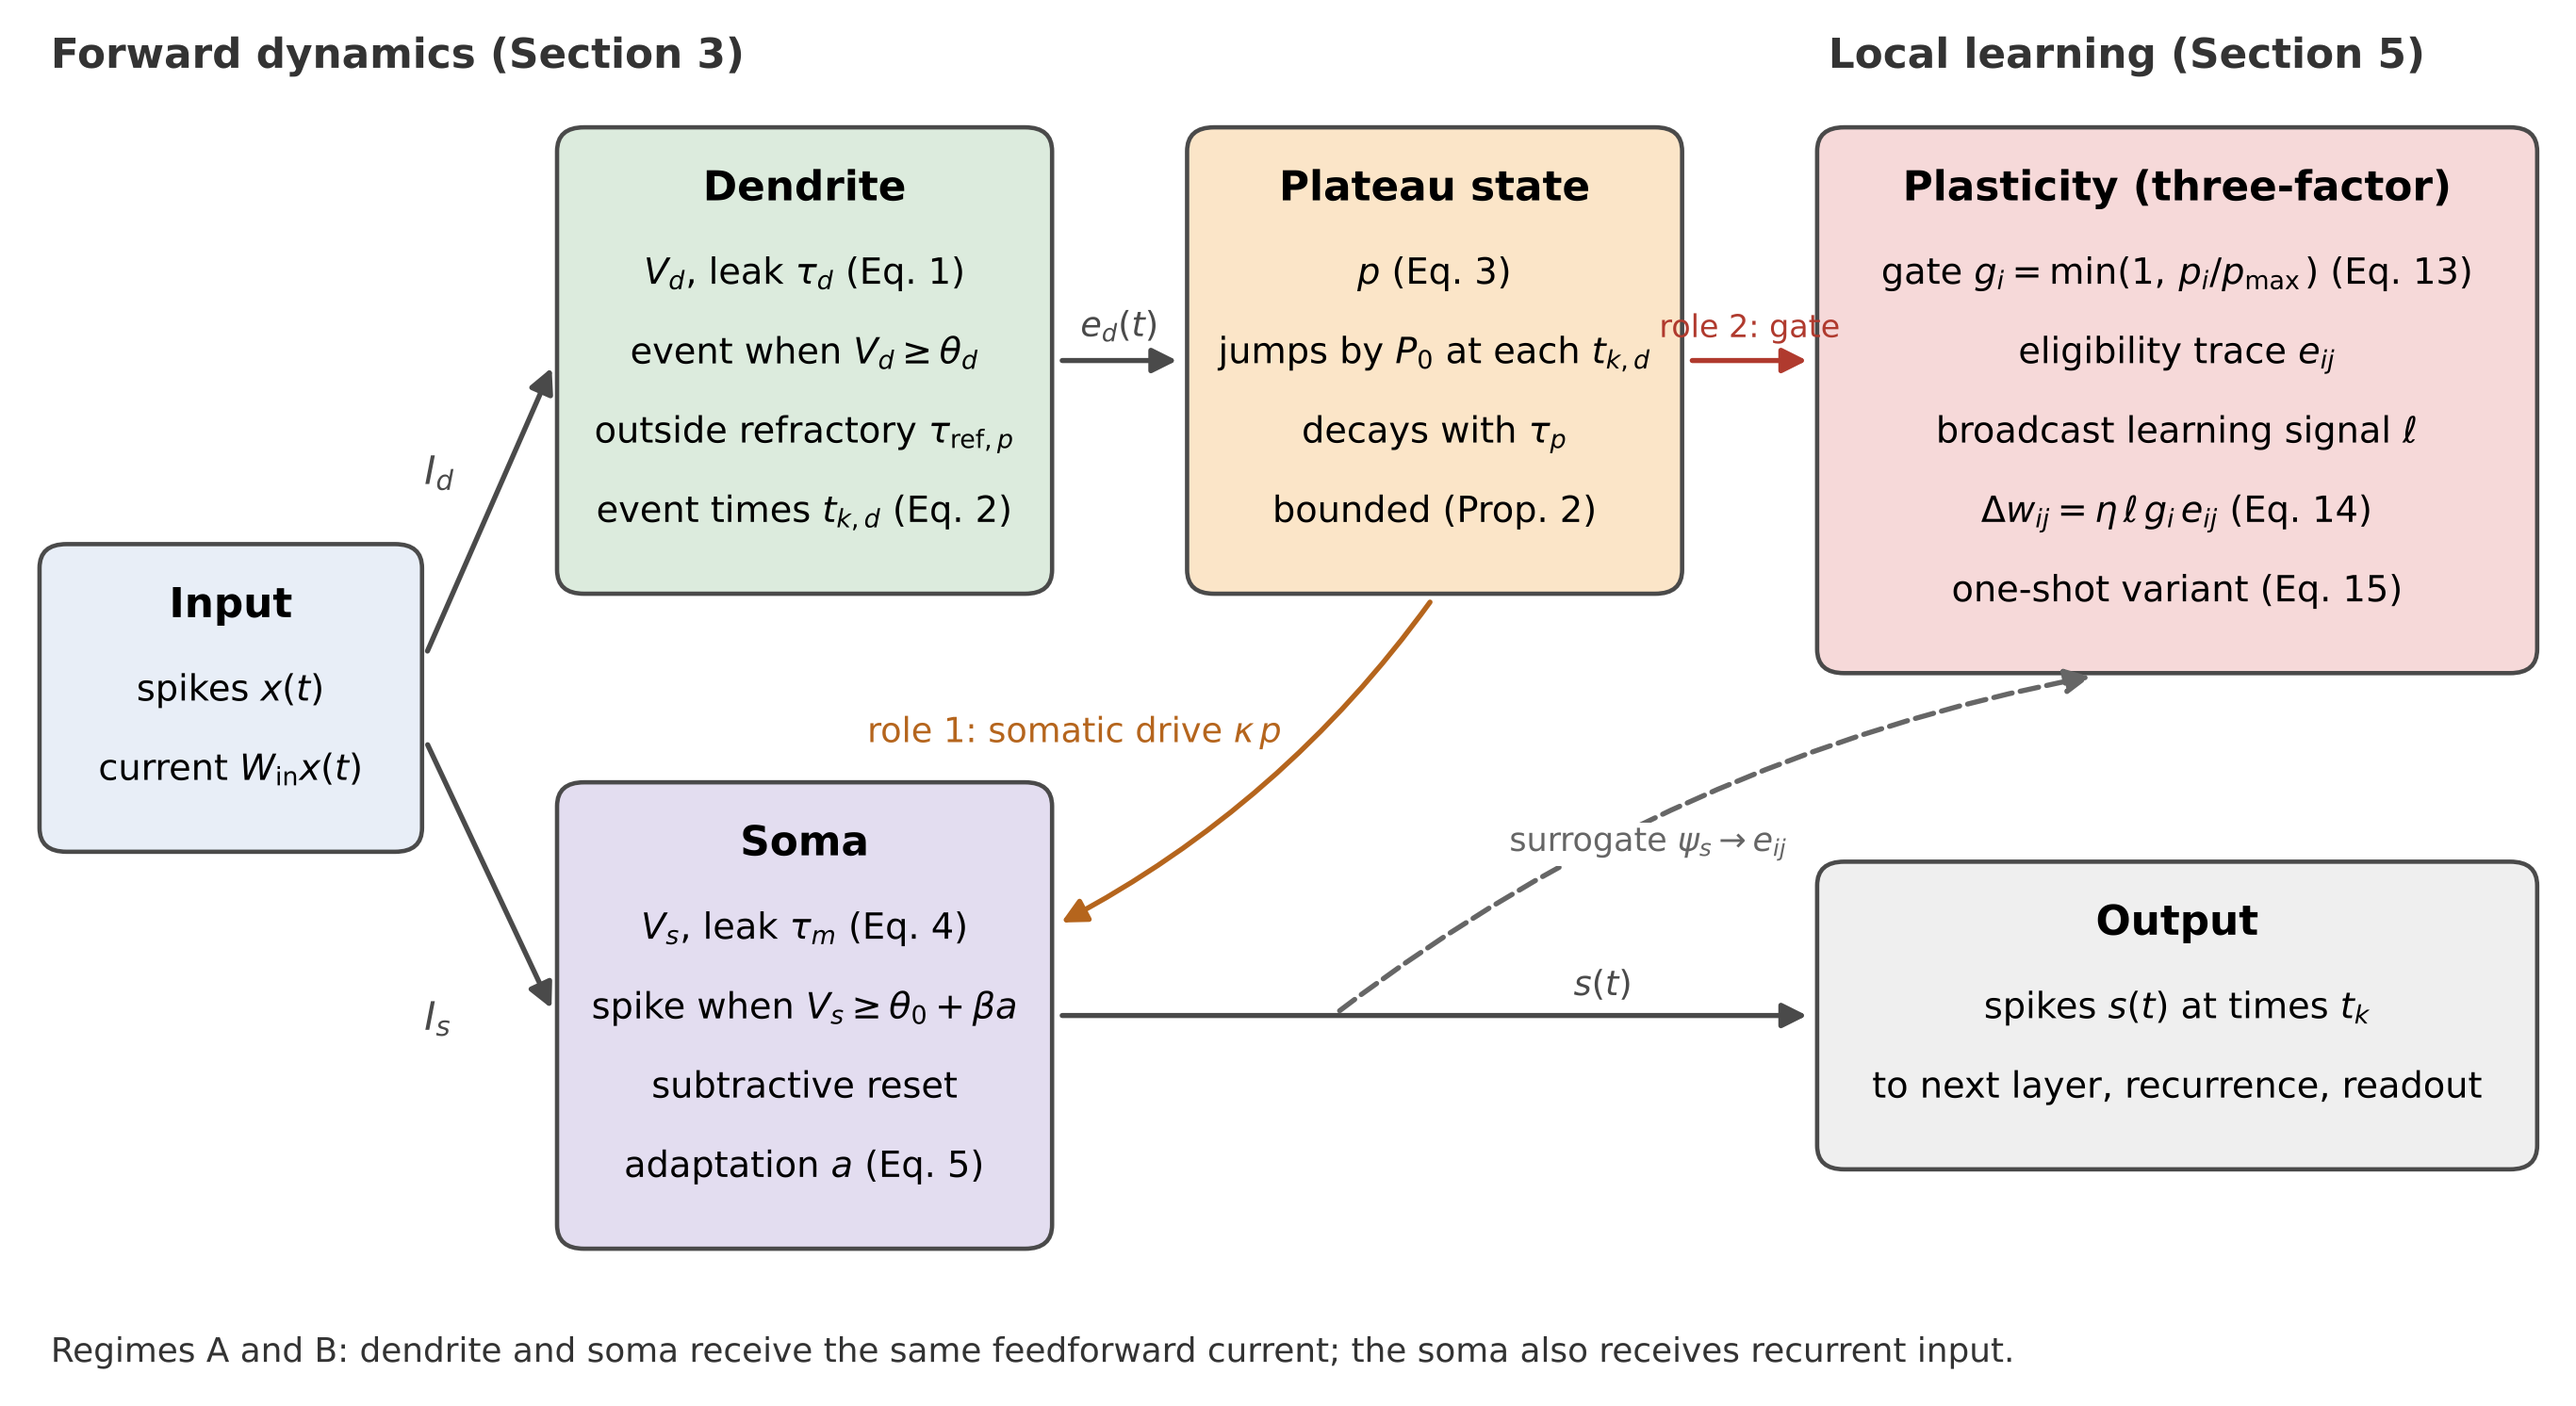
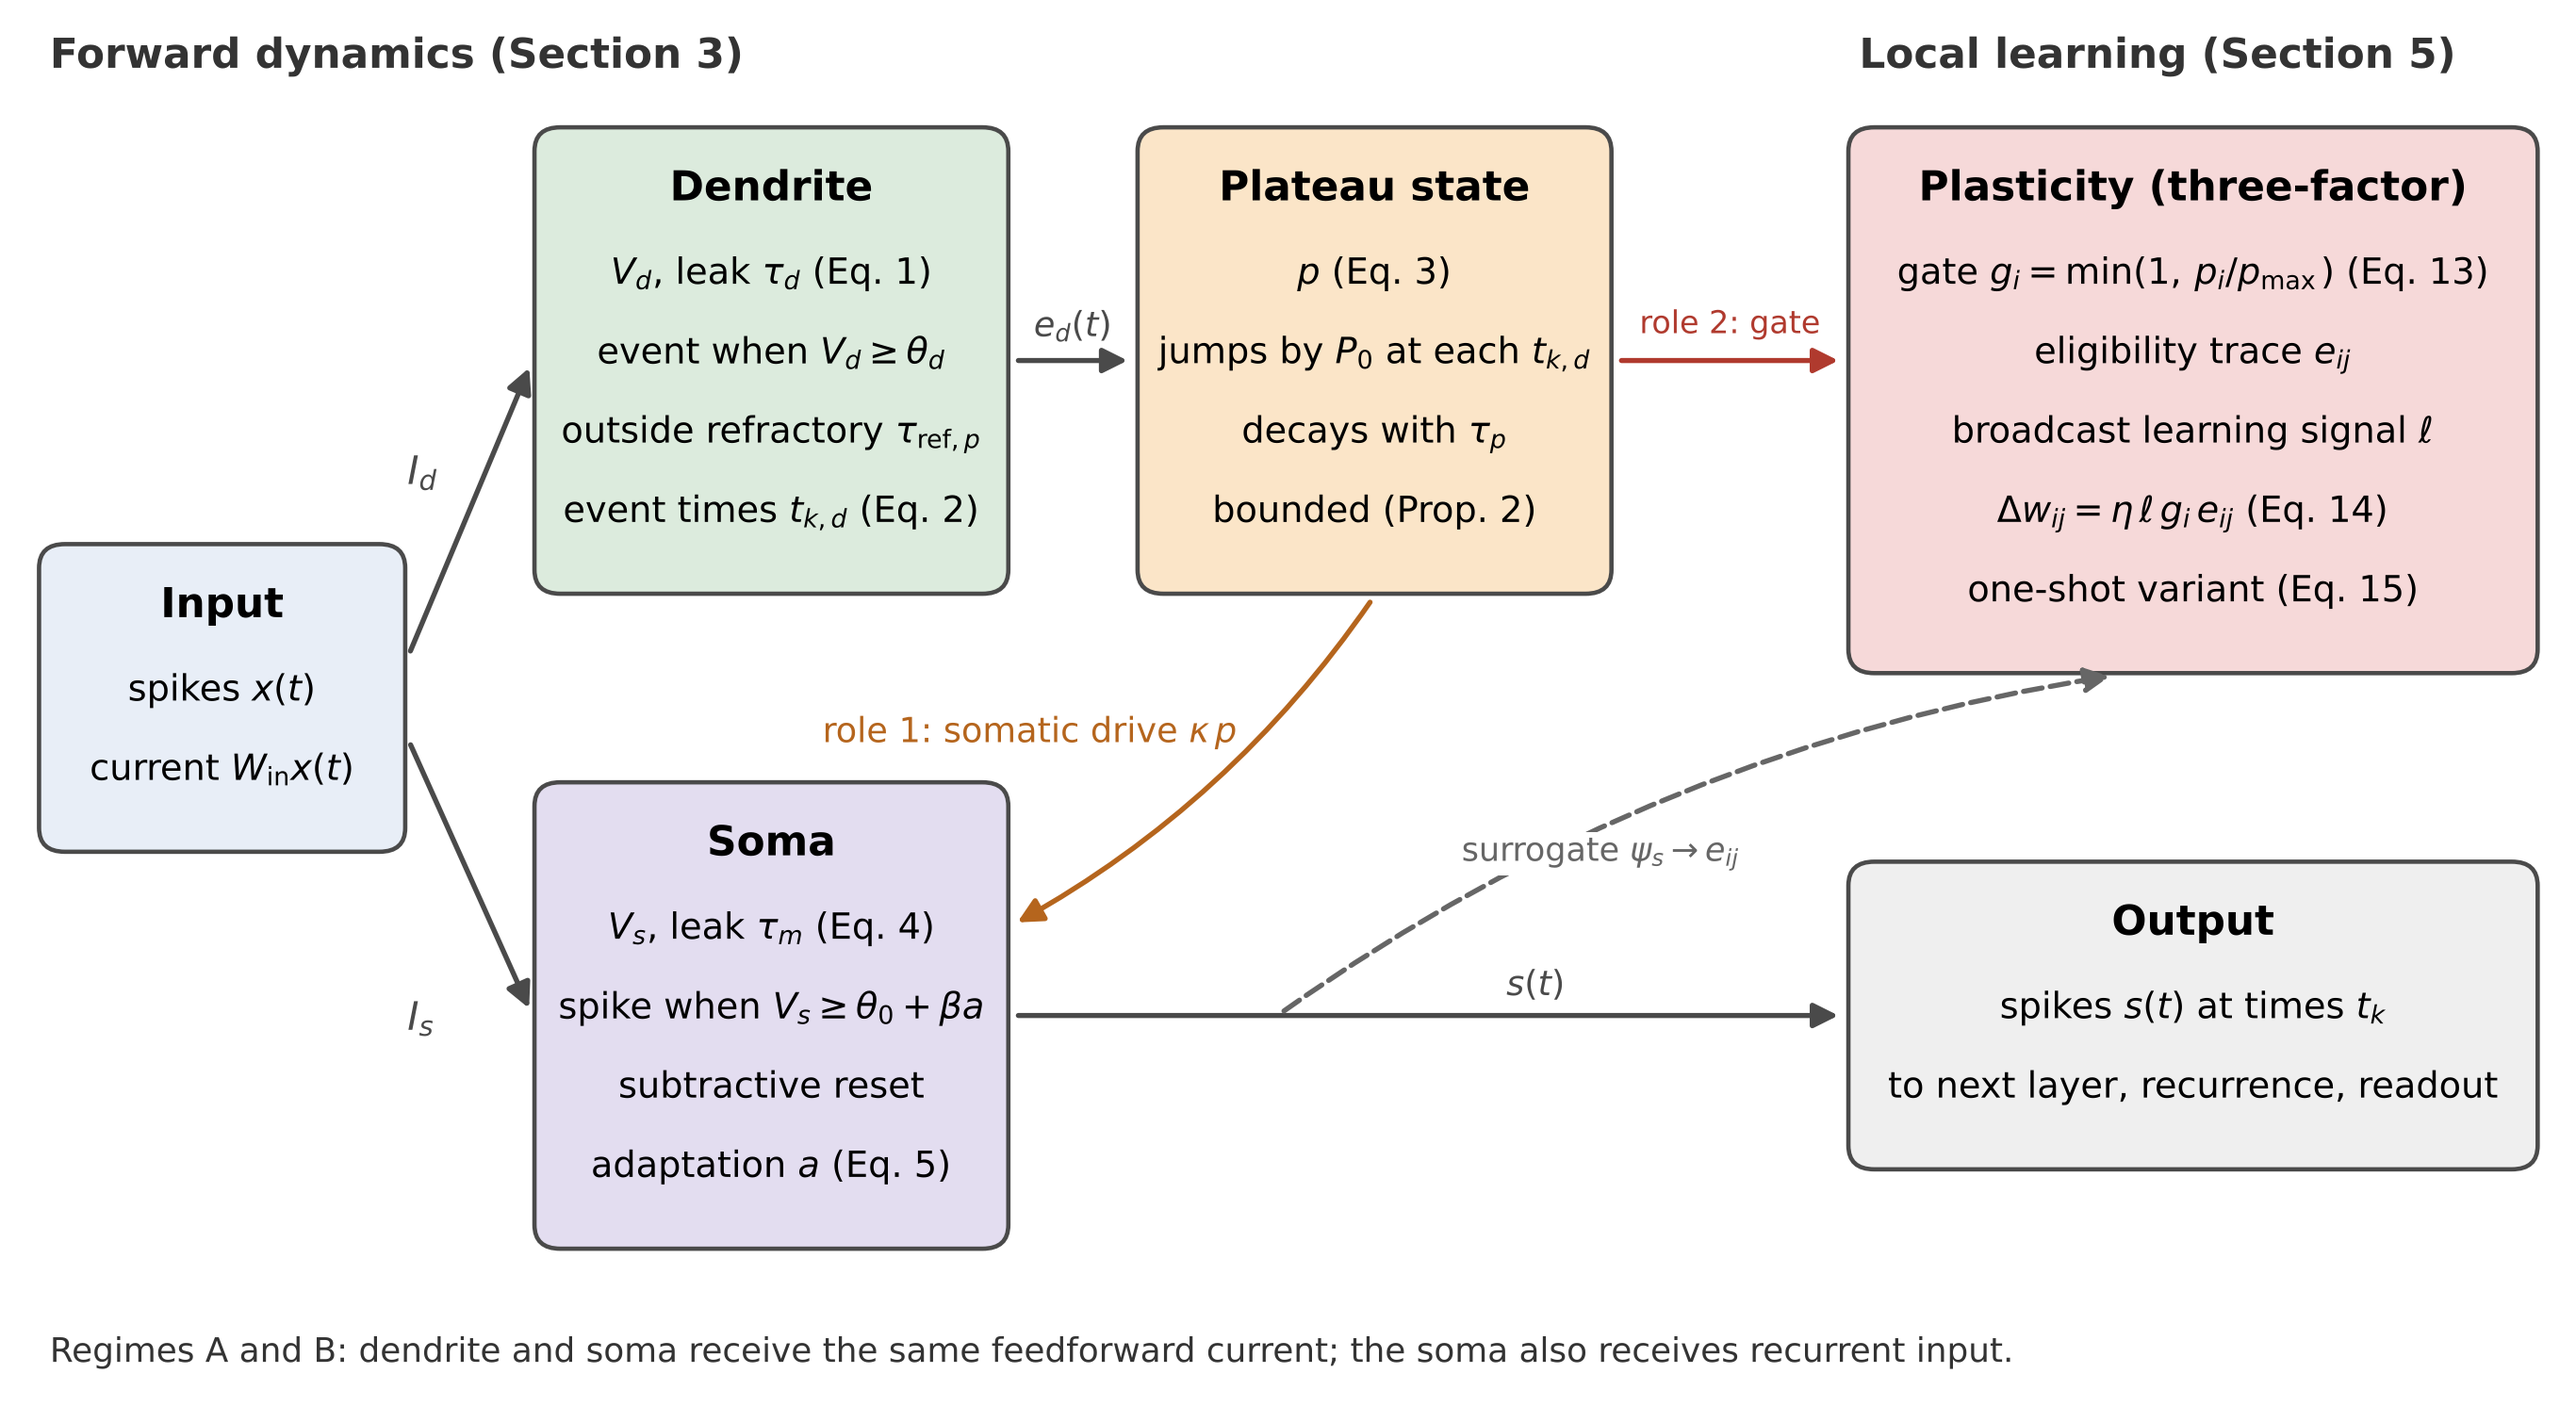
Fix label overlap in the method overview figure
The 'role 2: gate' label sat on the borders of the plateau and plasticity
boxes. Widen the gap between the two columns so the label fits inside it, and
move the surrogate-pathway label clear of the arrow. Adds the notebook that
generates the figure.

diff --git a/README.md b/README.md
@@ -49,6 +49,7 @@ lists them and what each one produces.
 | `PG_LIF_P3b_gated_eprop_R1.ipynb` | Sec. 7.3, Table 2 | Regime B with two neuron-local gate normalizations, full-test-set accuracy, gate statistics |
 | `PG_LIF_P3a_confirmatory_matched_controls_R1.ipynb` | Sec. 7.5, Table 6, Fig. 11 | Confirmatory one-shot experiment, 50 seeds, controls matched in gated-neuron count, learning rate and per-neuron updates |
 | `PG_LIF_P3a_one_shot_memorization_R1_eq12_sensitivity.ipynb` | Sec. 7.5 | One-shot sensitivity run under the alternative gate normalization |
+| `PG_LIF_fig_overview.ipynb` | Fig. 1 | Method overview schematic |
 
 `notebooks/executed_runs/` holds re-executed copies (with cell outputs retained)
 of the notebooks used to extract the exact numbers/figures reported for the
